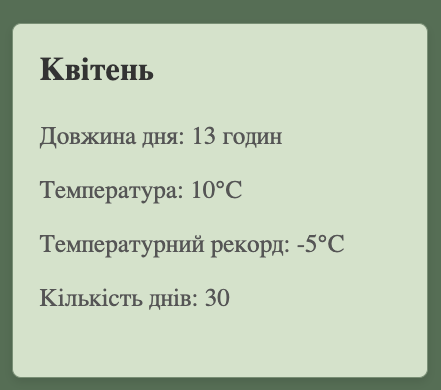
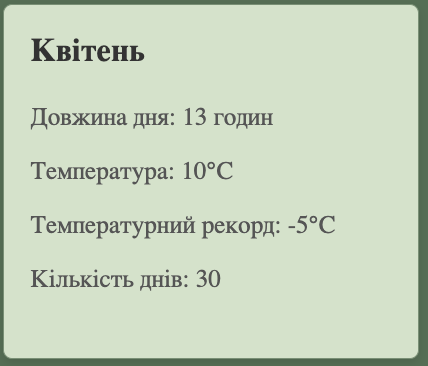
style done

diff --git a/hw2_3/hw2_3.html b/hw2_3/hw2_3.html
@@ -4,7 +4,34 @@
     <meta charset="UTF-8">
     <title>hw_2_3</title>
     <style>
+        body{
+            width: 100vw;
+            height: 100vw;
+            background: #566e54;
+        }
+.flex{
+    width: 100vw;
+    height: 70vw;
+    display: flex;
+    flex-wrap: wrap;
+    flex-direction: row;
+    align-content: flex-start;
+    justify-content: space-evenly;
 
+
+     }
+.weather{
+        display: flex;
+        width: 15vw;
+        height: 15vw;
+
+        }
+.weather img{
+    width: 13vw;
+    height: 13vw;
+    justify-items: center;
+    align-items: center;
+}
     </style>
 </head>
 <body>
